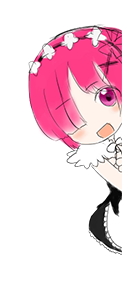
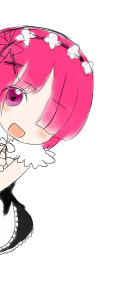
调换蕾姆和拉姆的位置

diff --git a/templates/user/login.html b/templates/user/login.html
@@ -3,8 +3,8 @@
 {% set container_class = 'max-width-480' %}
 {% block content %}
   <div class="uk-card uk-card-default uk-card-small uk-card-body">
-    <img class="poster-girl" src="/static/img/ram.png">
-    <img class="poster-girl-right" src="/static/img/rem.png">
+    <img class="poster-girl" src="/static/img/rem.png">
+    <img class="poster-girl-right" src="/static/img/ram.png">
     <div>
       <h2 class="uk-text-center uk-margin-remove-bottom">登录</h2>
     </div>
